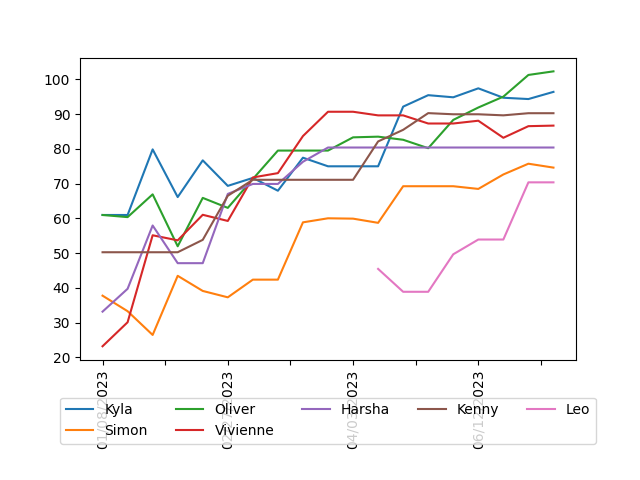
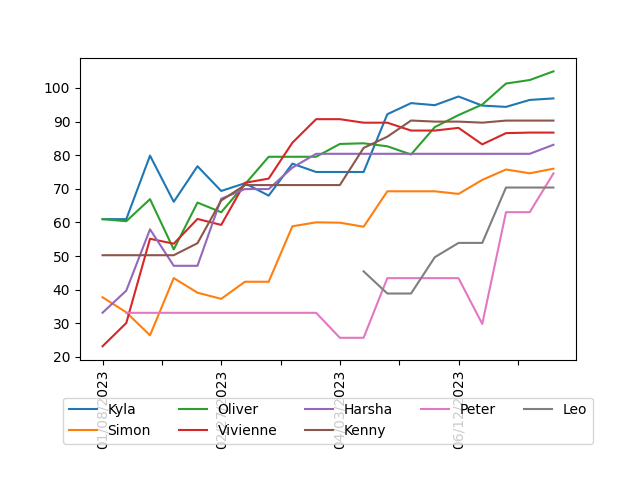
update rankings

diff --git a/README.md b/README.md
@@ -5,18 +5,21 @@
 
 | Player | ELO | Wins | Losses | Win % | Best Game |
 | --- | --- | --- | --- | --- | --- |
-| Oliver | 102.34 | 36 | 28 | 56% | Secret Hitler |
-| Kyla | 96.43 | 34 | 30 | 53% | Cash n Guns |
+| Oliver | 104.93 | 41 | 28 | 59% | Secret Hitler |
+| Kyla | 96.88 | 37 | 32 | 54% | Cash n Guns |
 | Kenny | 90.29 | 20 | 20 | 50% | Cash n Guns |
 | Nikiny | 88.92 | 6 | 12 | 33% | Cash n Guns |
 | Vivienne | 86.72 | 29 | 21 | 58% | Secret Hitler |
 | Dan | 83.36 | 7 | 9 | 44% | Masquerade |
-| Harsha | 80.41 | 17 | 16 | 52% | Secret Hitler |
-| Simon | 74.63 | 23 | 31 | 43% | Cash n Guns |
+| Harsha | 83.10 | 19 | 19 | 50% | Secret Hitler |
+| Simon | 75.98 | 24 | 31 | 44% | Cash n Guns |
+| Peter | 74.58 | 6 | 14 | 30% | Love Letter |
+| Kazumi | 70.83 | 3 | 11 | 21% | Love Letter |
 | Leo | 70.38 | 7 | 15 | 32% | Masquerade |
 | Karen | 69.00 | 2 | 1 | 67% | Codenames |
+| Justin | 67.16 | 1 | 4 | 20% | Love Letter |
+| Siri | 64.90 | 1 | 7 | 12% | Love Letter |
 | Rob | 63.15 | 3 | 1 | 75% | Codenames |
-| Peter | 63.05 | 5 | 10 | 33% | Masquerade |
 | Sincere | 59.99 | 2 | 2 | 50% | Bang |
 | Calvin | 55.59 | 7 | 10 | 41% | Secret Hitler |
 | Dari | 55.21 | 3 | 2 | 60% | Secret Hitler |
@@ -24,7 +27,6 @@
 | Frances | 52.22 | 3 | 1 | 75% | Codenames |
 | Diana | 51.37 | 2 | 5 | 29% | Codenames |
 | Aaron | 49.47 | 6 | 10 | 38% | Incan Gold |
-| Kazumi | 49.16 | 2 | 7 | 22% | Bang |
 | Queenie | 48.75 | 5 | 9 | 36% | Secret Hitler |
 | Jason | 47.52 | 3 | 4 | 43% | Wavelength |
 | Kai | 47.09 | 5 | 7 | 42% | Secret Hitler |
@@ -34,7 +36,6 @@
 | Gillian | 42.31 | 1 | 4 | 20% | Coup |
 | Eunice | 41.96 | 1 | 1 | 50% | Wavelength |
 | Yoyo | 41.68 | 1 | 1 | 50% | Secret Hitler |
-| Siri | 40.93 | 1 | 5 | 17% | Coup |
 | Ellabelle | 38.67 | 1 | 7 | 12% | Avalon |
 | Agnes | 27.82 | 1 | 4 | 20% | Avalon |
 | Katrina | 25.63 | 2 | 3 | 40% | Codenames |
@@ -94,24 +95,25 @@
 
 | Player | ELO | Wins | Losses | Win % |
 | --- | --- | --- | --- | --- |
+| Kyla | 74.24  | 10 | 5 | 67% |
 | Vivienne | 70.73  | 7 | 3 | 70% |
-| Kyla | 62.02  | 8 | 5 | 62% |
+| Oliver | 64.02  | 8 | 5 | 62% |
+| Harsha | 59.45  | 6 | 4 | 60% |
 | Kenny | 57.00  | 5 | 3 | 62% |
-| Harsha | 56.24  | 5 | 3 | 62% |
 | Diana | 50.80  | 1 | 0 | 100% |
 | Karen | 50.80  | 1 | 0 | 100% |
-| Oliver | 50.42  | 6 | 5 | 55% |
 | Fred | 48.43  | 1 | 0 | 100% |
 | Rob | 48.41  | 1 | 0 | 100% |
 | Frances | 48.41  | 1 | 0 | 100% |
 | Katrina | 46.85  | 2 | 0 | 100% |
 | Dari | 46.30  | 1 | 0 | 100% |
-| Kazumi | 44.38  | 1 | 0 | 100% |
 | Leo | 40.13  | 2 | 2 | 50% |
+| Justin | 39.30  | 1 | 1 | 50% |
 | Simon | 38.73  | 5 | 8 | 38% |
 | Nikiny | 34.91  | 2 | 3 | 40% |
 | Kai | 33.68  | 1 | 2 | 33% |
 | Aaron | 32.97  | 1 | 3 | 25% |
+| Kazumi | 32.08  | 1 | 2 | 33% |
 | Ellabelle | 27.70  | 0 | 1 | 0% |
 | Siri | 26.63  | 0 | 1 | 0% |
 | Gillian | 26.63  | 0 | 1 | 0% |
@@ -122,6 +124,7 @@
 | Agnes | 25.05  | 0 | 2 | 0% |
 | Shirley | 23.77  | 0 | 1 | 0% |
 | Dan | 23.44  | 0 | 2 | 0% |
+| Peter | 20.46  | 0 | 2 | 0% |
 | Calvin | 19.73  | 2 | 5 | 29% |
 | Queenie | 17.80  | 0 | 2 | 0% |
 
@@ -170,27 +173,29 @@
 
 | Player | ELO | Wins | Losses | Win % |
 | --- | --- | --- | --- | --- |
-| Kyla | 59.97  | 4 | 3 | 57% |
+| Kyla | 64.38  | 4 | 4 | 50% |
 | Vivienne | 48.37  | 3 | 2 | 60% |
-| Peter | 46.73  | 3 | 1 | 75% |
+| Oliver | 46.68  | 1 | 7 | 12% |
 | Leo | 46.47  | 0 | 3 | 0% |
 | Aaron | 44.91  | 2 | 2 | 50% |
+| Peter | 42.80  | 3 | 2 | 60% |
 | Kenny | 42.58  | 1 | 3 | 25% |
+| Harsha | 40.76  | 0 | 5 | 0% |
 | Kai | 40.48  | 1 | 2 | 33% |
 | Abhi | 38.64  | 1 | 1 | 50% |
-| Oliver | 38.53  | 0 | 7 | 0% |
-| Harsha | 37.72  | 0 | 4 | 0% |
 | Sincere | 37.50  | 0 | 1 | 0% |
 | Calvin | 35.37  | 0 | 1 | 0% |
 | Dan | 34.54  | 0 | 1 | 0% |
+| Justin | 34.49  | 0 | 1 | 0% |
 | Louise | 33.38  | 0 | 1 | 0% |
+| Siri | 32.16  | 0 | 1 | 0% |
 | Agnes | 31.27  | 0 | 1 | 0% |
 | Dorine | 31.00  | 0 | 2 | 0% |
-| Kazumi | 30.89  | 0 | 1 | 0% |
 | Nikiny | 30.40  | 0 | 7 | 0% |
 | Jason | 28.73  | 0 | 1 | 0% |
 | Queenie | 26.65  | 0 | 2 | 0% |
 | Katrina | 24.83  | 0 | 1 | 0% |
+| Kazumi | 23.22  | 0 | 2 | 0% |
 | Diana | 21.98  | 0 | 3 | 0% |
 | Simon | 17.96  | 2 | 8 | 20% |
 
@@ -198,24 +203,26 @@
 
 | Player | ELO | Wins | Losses | Win % |
 | --- | --- | --- | --- | --- |
-| Oliver | 95.68  | 9 | 0 | 100% |
+| Oliver | 98.83  | 10 | 0 | 100% |
+| Simon | 58.85  | 5 | 1 | 83% |
 | Dan | 55.11  | 4 | 1 | 80% |
-| Simon | 54.99  | 4 | 1 | 80% |
 | Leo | 50.94  | 3 | 1 | 75% |
-| Kyla | 45.65  | 5 | 4 | 56% |
+| Kyla | 48.79  | 6 | 4 | 60% |
 | Ellabelle | 44.78  | 1 | 0 | 100% |
 | Kenny | 39.00  | 3 | 3 | 50% |
+| Harsha | 38.32  | 1 | 0 | 100% |
 | Aaron | 36.60  | 1 | 1 | 50% |
 | Jason | 36.60  | 1 | 1 | 50% |
 | Sincere | 36.07  | 1 | 1 | 50% |
 | Agnes | 35.62  | 1 | 1 | 50% |
 | Abhi | 34.05  | 1 | 2 | 33% |
 | Calvin | 33.19  | 1 | 2 | 33% |
+| Justin | 31.30  | 0 | 1 | 0% |
 | Vivienne | 26.65  | 2 | 4 | 33% |
-| Kazumi | 25.30  | 0 | 2 | 0% |
+| Kazumi | 23.41  | 0 | 3 | 0% |
 | Katrina | 22.86  | 0 | 2 | 0% |
 | Louise | 22.86  | 0 | 2 | 0% |
-| Peter | 21.44  | 0 | 3 | 0% |
+| Peter | 19.55  | 0 | 4 | 0% |
 
 ### Coup
 
@@ -280,5 +287,17 @@
 | Kenny | 58.54  | 0 | 1 | 0% |
 | Dan | 58.54  | 0 | 1 | 0% |
 | Vivienne | 58.54  | 0 | 1 | 0% |
-| Leo | 58.54  | 0 | 1 | 0% |
 | Kyla | 58.54  | 0 | 1 | 0% |
+| Leo | 58.54  | 0 | 1 | 0% |
+
+### Love Letter
+
+| Player | ELO | Wins | Losses | Win % |
+| --- | --- | --- | --- | --- |
+| Kazumi | 69.85  | 1 | 0 | 100% |
+| Peter | 69.85  | 1 | 0 | 100% |
+| Oliver | 69.85  | 1 | 0 | 100% |
+| Kyla | 53.03  | 0 | 1 | 0% |
+| Justin | 53.03  | 0 | 1 | 0% |
+| Siri | 53.03  | 0 | 1 | 0% |
+| Harsha | 53.03  | 0 | 1 | 0% |
